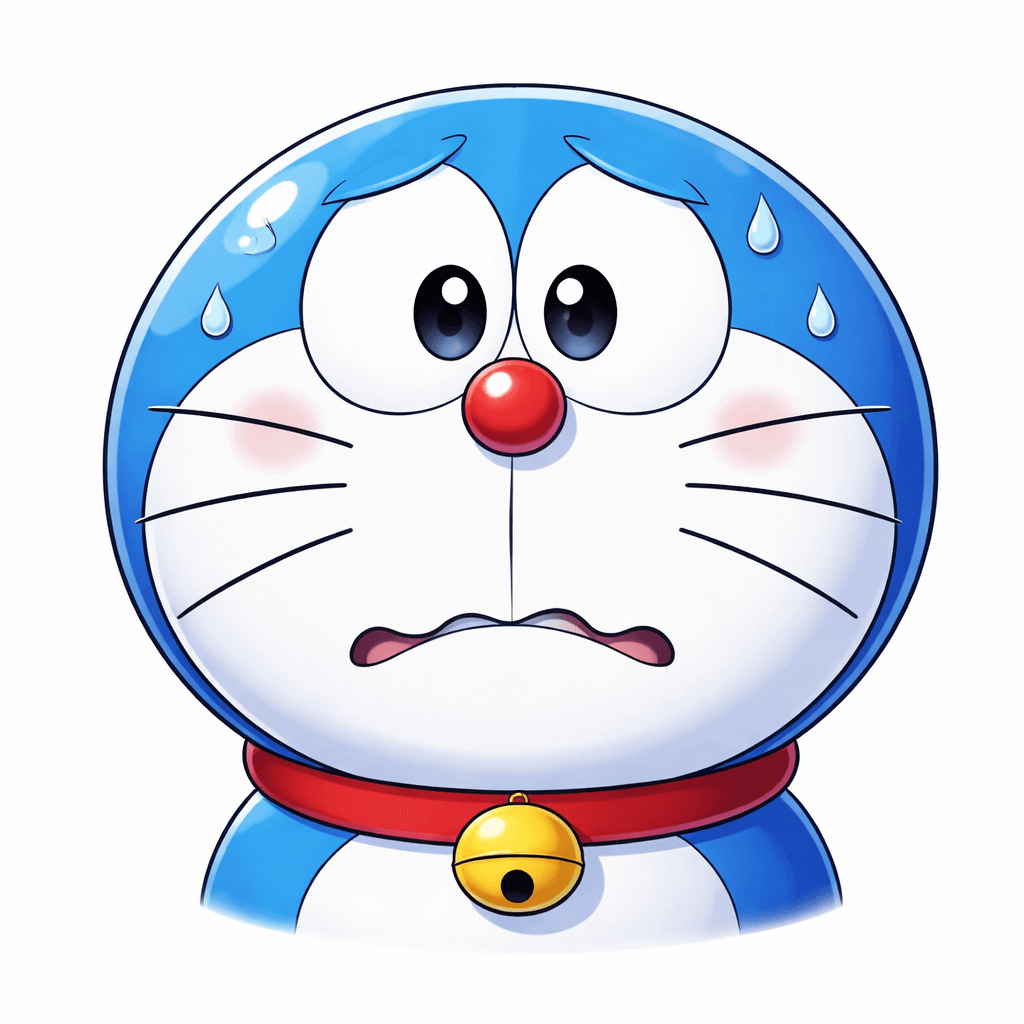
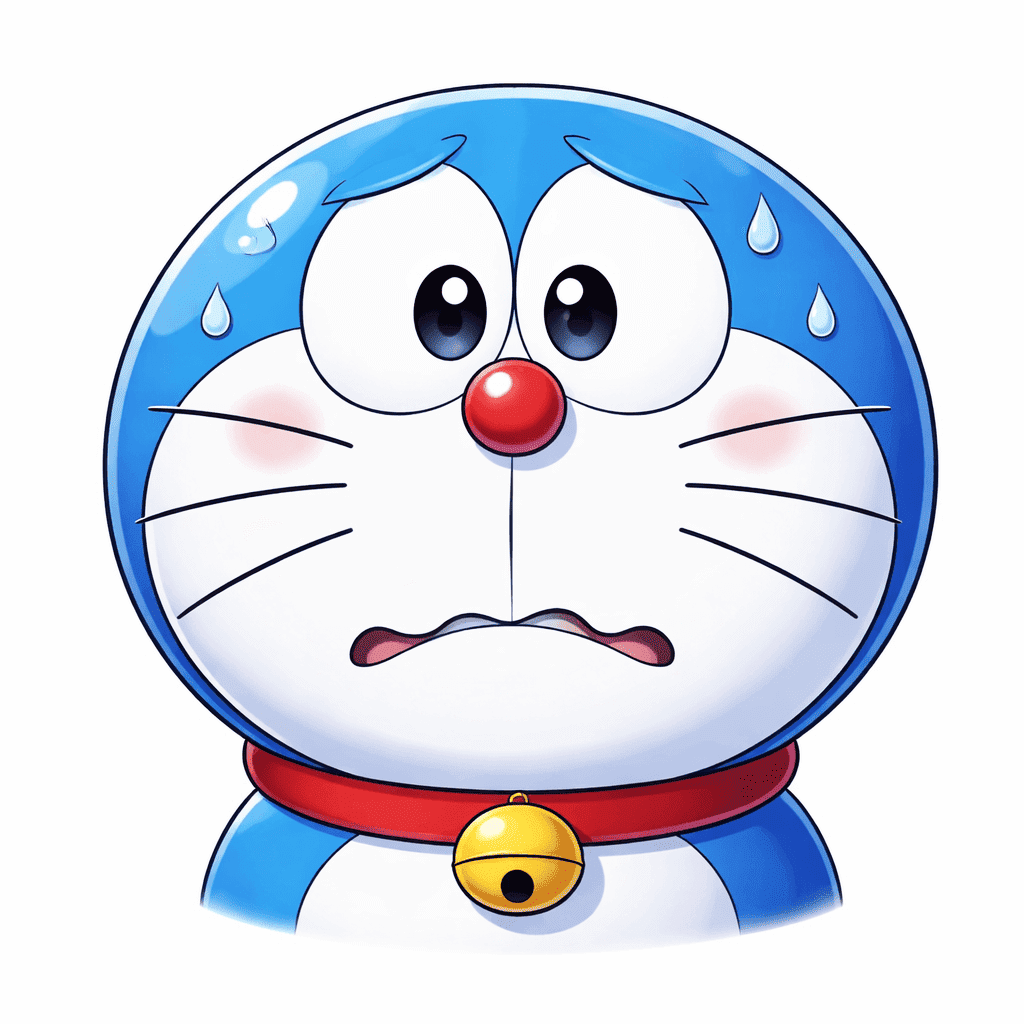
replaced png with webp

diff --git a/script.js b/script.js
@@ -39,11 +39,11 @@ const COLORS = {
 const sprites = {
     nobita: new Image(), gian: new Image(), suneo: new Image(), sensei: new Image(), doraemon: new Image()
 };
-sprites.nobita.src = "assets/nobita.png";
-sprites.gian.src = "assets/gian.png";
-sprites.suneo.src = "assets/suneo.png";
-sprites.sensei.src = "assets/sensei.png";
-sprites.doraemon.src = "assets/doraemon.png";
+sprites.nobita.src = "assets/nobita.webp";
+sprites.gian.src = "assets/gian.webp";
+sprites.suneo.src = "assets/suneo.webp";
+sprites.sensei.src = "assets/sensei.webp";
+sprites.doraemon.src = "assets/doraemon.webp";
 
 // map/maze
 const nodes = [
@@ -351,7 +351,7 @@ function showTooFarDialog() {
     dialogBox.innerHTML = `
         <h1 style="margin: 0 0 10px 0; color: ${warnColor}; font-size: 1.8rem; text-transform: uppercase;">TOO FAR!</h1>
         <div style="margin-bottom: 15px;">
-            <img src="assets/bamboo_copter.png" style="width: 80px; height: 80px; border-radius: 50%; border: 4px solid ${warnColor}; background: white; padding: 5px; object-fit: contain;">
+            <img src="assets/bamboo_copter.webp" style="width: 80px; height: 80px; border-radius: 50%; border: 4px solid ${warnColor}; background: white; padding: 5px; object-fit: contain;">
         </div>
         <p style="margin:0; font-size:1.1rem; color:#2c3e50; font-weight: 700; line-height: 1.4;">
             Tap a red circle!<br>
@@ -405,7 +405,7 @@ function gameOver(isWin, villain = null) {
         
         htmlContent = `
             <div style="margin-bottom: 15px;">
-                <img src="assets/doraemon.png" style="width: 80px; height: 80px; border-radius: 50%; border: 4px solid #34ace0; background: white;">
+                <img src="assets/doraemon.webp" style="width: 80px; height: 80px; border-radius: 50%; border: 4px solid #34ace0; background: white;">
             </div>
             You reached Doraemon!<br>
             Doraemon: Here's the <br>
@@ -415,7 +415,7 @@ function gameOver(isWin, villain = null) {
         endTitle.innerText = "CAUGHT!"; 
         endTitle.style.color = COLORS.gian; 
         
-        let villainImg = `assets/${villain.type}.png`;
+        let villainImg = `assets/${villain.type}.webp`;
         let borderColor = COLORS[villain.type] || "#000";
         
         htmlContent = `
@@ -435,4 +435,20 @@ window.closeDialog = closeDialog;
 setupCanvas();
 window.addEventListener('resize', () => { setupCanvas(); draw(); });
 initAnimation();
-sprites.nobita.onload = draw;
+
+
+let imagesLoaded = 0;
+const totalImages = Object.keys(sprites).length;
+
+function checkAllImagesLoaded() {
+    imagesLoaded++;
+    if (imagesLoaded === totalImages) {
+        // Only draw once everyone is ready
+        draw(); 
+    }
+}
+
+// Attach checker to every sprite
+for (let key in sprites) {
+    sprites[key].onload = checkAllImagesLoaded;
+}

diff --git a/index.html b/index.html
@@ -4,7 +4,7 @@
     <meta charset="UTF-8">
     <meta name="viewport" content="width=device-width, initial-scale=1.0, maximum-scale=1.0, user-scalable=no, viewport-fit=cover">
     <title>Nobita's Great Escape</title>
-    <link rel="icon" href="assets/doraemon.png" type="image/png">
+    <link rel="icon" href="assets/doraemon.webp" type="image/png">
     <link rel="stylesheet" href="style.css">
 </head>
 <body>

diff --git a/style.css b/style.css
@@ -63,7 +63,7 @@ canvas {
     max-width: 100%;
     max-height: 100%;
     border-radius: 16px;
-    background-image: url('assets/city_bg.png'); 
+    background-image: url('assets/city_bg.webp'); 
     background-size: cover;
     background-position: center;
     box-shadow: 0 10px 30px rgba(0,0,0,0.3);
